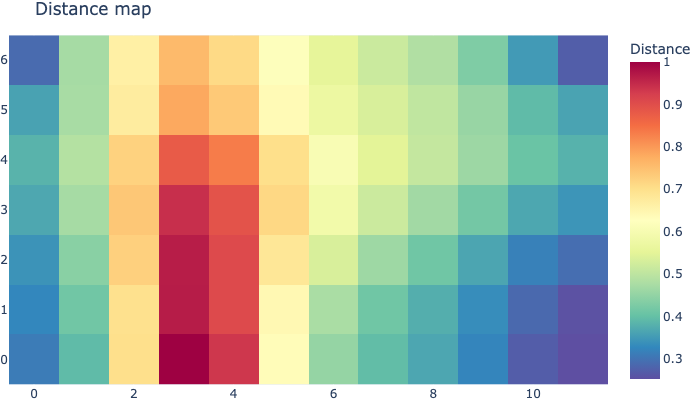
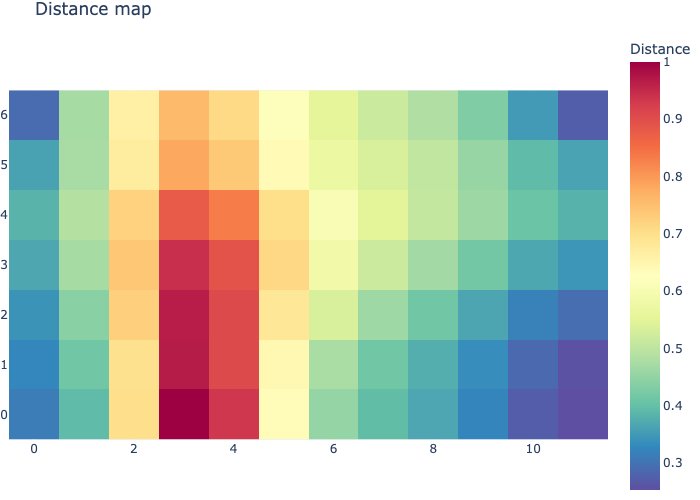
Minor fixes, update README

diff --git a/README.md b/README.md
@@ -116,7 +116,7 @@ basin.pond() \
 
 ``` python
 # utilize the `iceflock` default theme instead of the `pond`
-basin.pond(style_name="iceflock") \
+basin.pond(base_style="iceflock") \
     .pad_layer() \
     .petal_layer() \
     .visualize(width=1000);
@@ -131,7 +131,7 @@ import numpy as np
 X_quantization_errors = np.linalg.norm(basin.som.quantization(X_scaled) - X_scaled, axis=1)
 custom_marker = dict(opacity=.85, size=16, color=X_quantization_errors, colorscale="Spectral_r", line=dict(width=1, color="black"))
 
-basin.pond(style_name="iceflock") \
+basin.pond(base_style="iceflock") \
     .pad_layer() \
     .attraction_layer(
         X_scaled,
